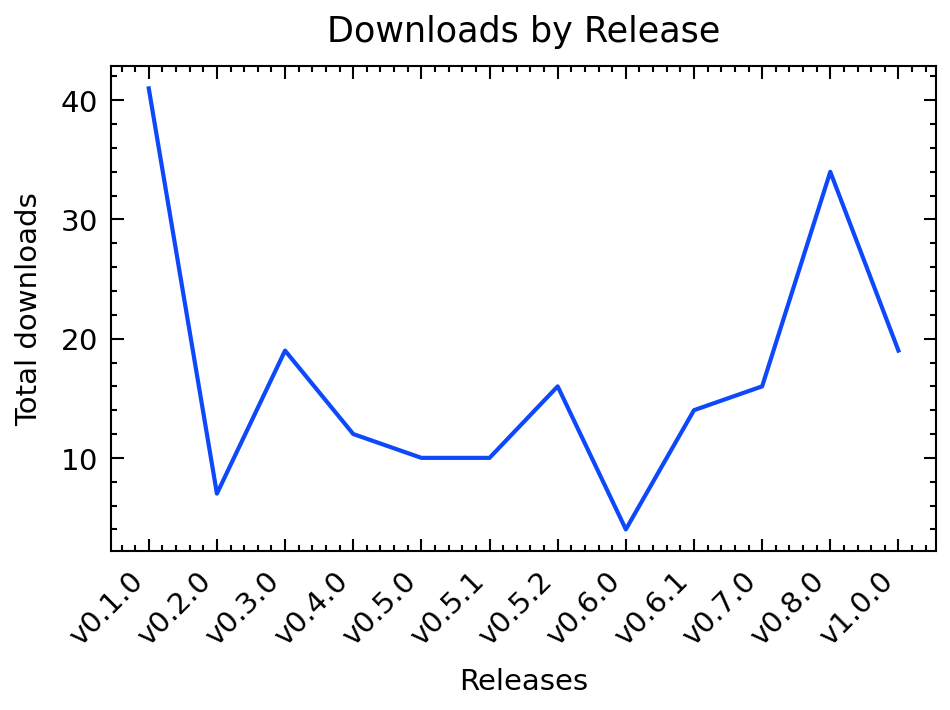
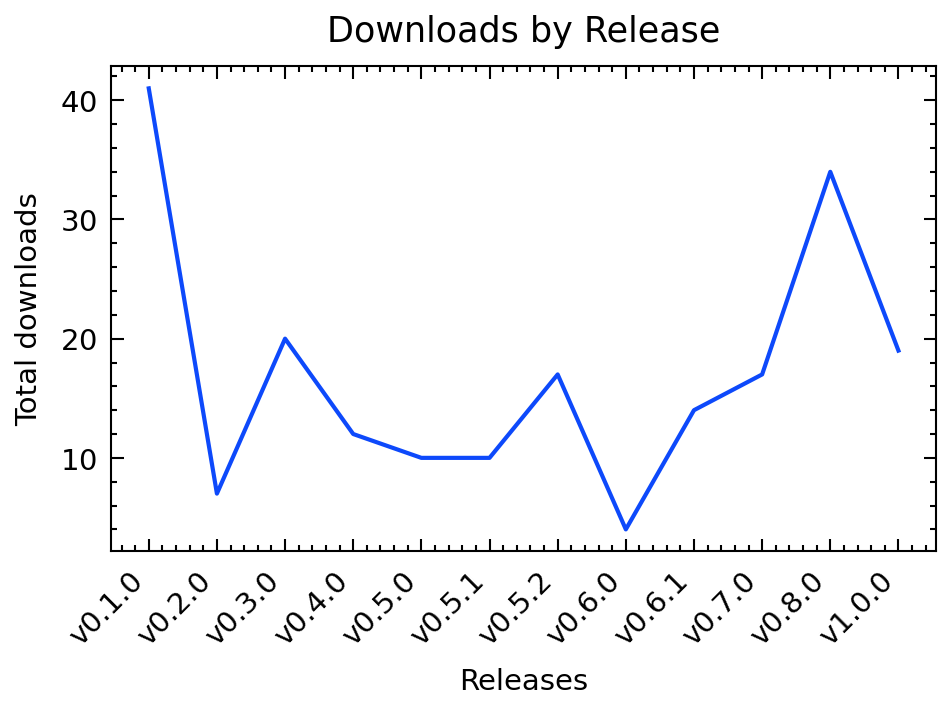
Updated Metrics data

diff --git a/README.md b/README.md
@@ -4,7 +4,7 @@
 SciWIn-Client helps users creating **Computational Workflows** in CWL. Detailed Information about SciWIn-Client can be found in the [GitHub Repository](https://github.com/fairagro/m4.4_sciwin_client). The Metrics shown below have been calculated using the GitHub API. Presentation is done via a CWL Workflow and the scripts in this repository.
 
 ## Downloads by Version
-SciWIn-Client currently has about 202 overall downloads across all versions and operating systems. The lastest version v1.0.0 currently has 19 downloads.
+SciWIn-Client currently has about 205 overall downloads across all versions and operating systems. The lastest version v1.0.0 currently has 19 downloads.
 
 
 ![downloads by version](release.png)
@@ -14,20 +14,20 @@ SciWIn-Client currently has about 202 overall downloads across all versions and 
 |---------|-----------|
 | v1.0.0 | 19|
 | v0.8.0 | 34|
-| v0.7.0 | 16|
+| v0.7.0 | 17|
 | v0.6.1 | 14|
 | v0.6.0 | 4|
-| v0.5.2 | 16|
+| v0.5.2 | 17|
 | v0.5.1 | 10|
 | v0.5.0 | 10|
 | v0.4.0 | 12|
-| v0.3.0 | 19|
+| v0.3.0 | 20|
 | v0.2.0 | 7|
 | v0.1.0 | 41|
 
 
 ## Downloads by Operating System
-SciWIn-Client is used on all major operating systems. There are 108 downloads of the Linux executable, 39 downloads of the Windows executable and 55 downloads of the Mac OS executable.
+SciWIn-Client is used on all major operating systems. There are 109 downloads of the Linux executable, 40 downloads of the Windows executable and 56 downloads of the Mac OS executable.
 
 
 ![downloads by platform](platform.png)
@@ -35,10 +35,10 @@ SciWIn-Client is used on all major operating systems. There are 108 downloads of
 
 | Platform | Downloads |
 |---------|-----------|
-| MacOS (ARM) | 31|
-| Linux (ARM) | 26|
+| MacOS (ARM) | 32|
+| Linux (ARM) | 27|
 | MacOS (x64) | 24|
-| Windows (x64) | 39|
+| Windows (x64) | 40|
 | Linux (x64) | 82|
 
 
